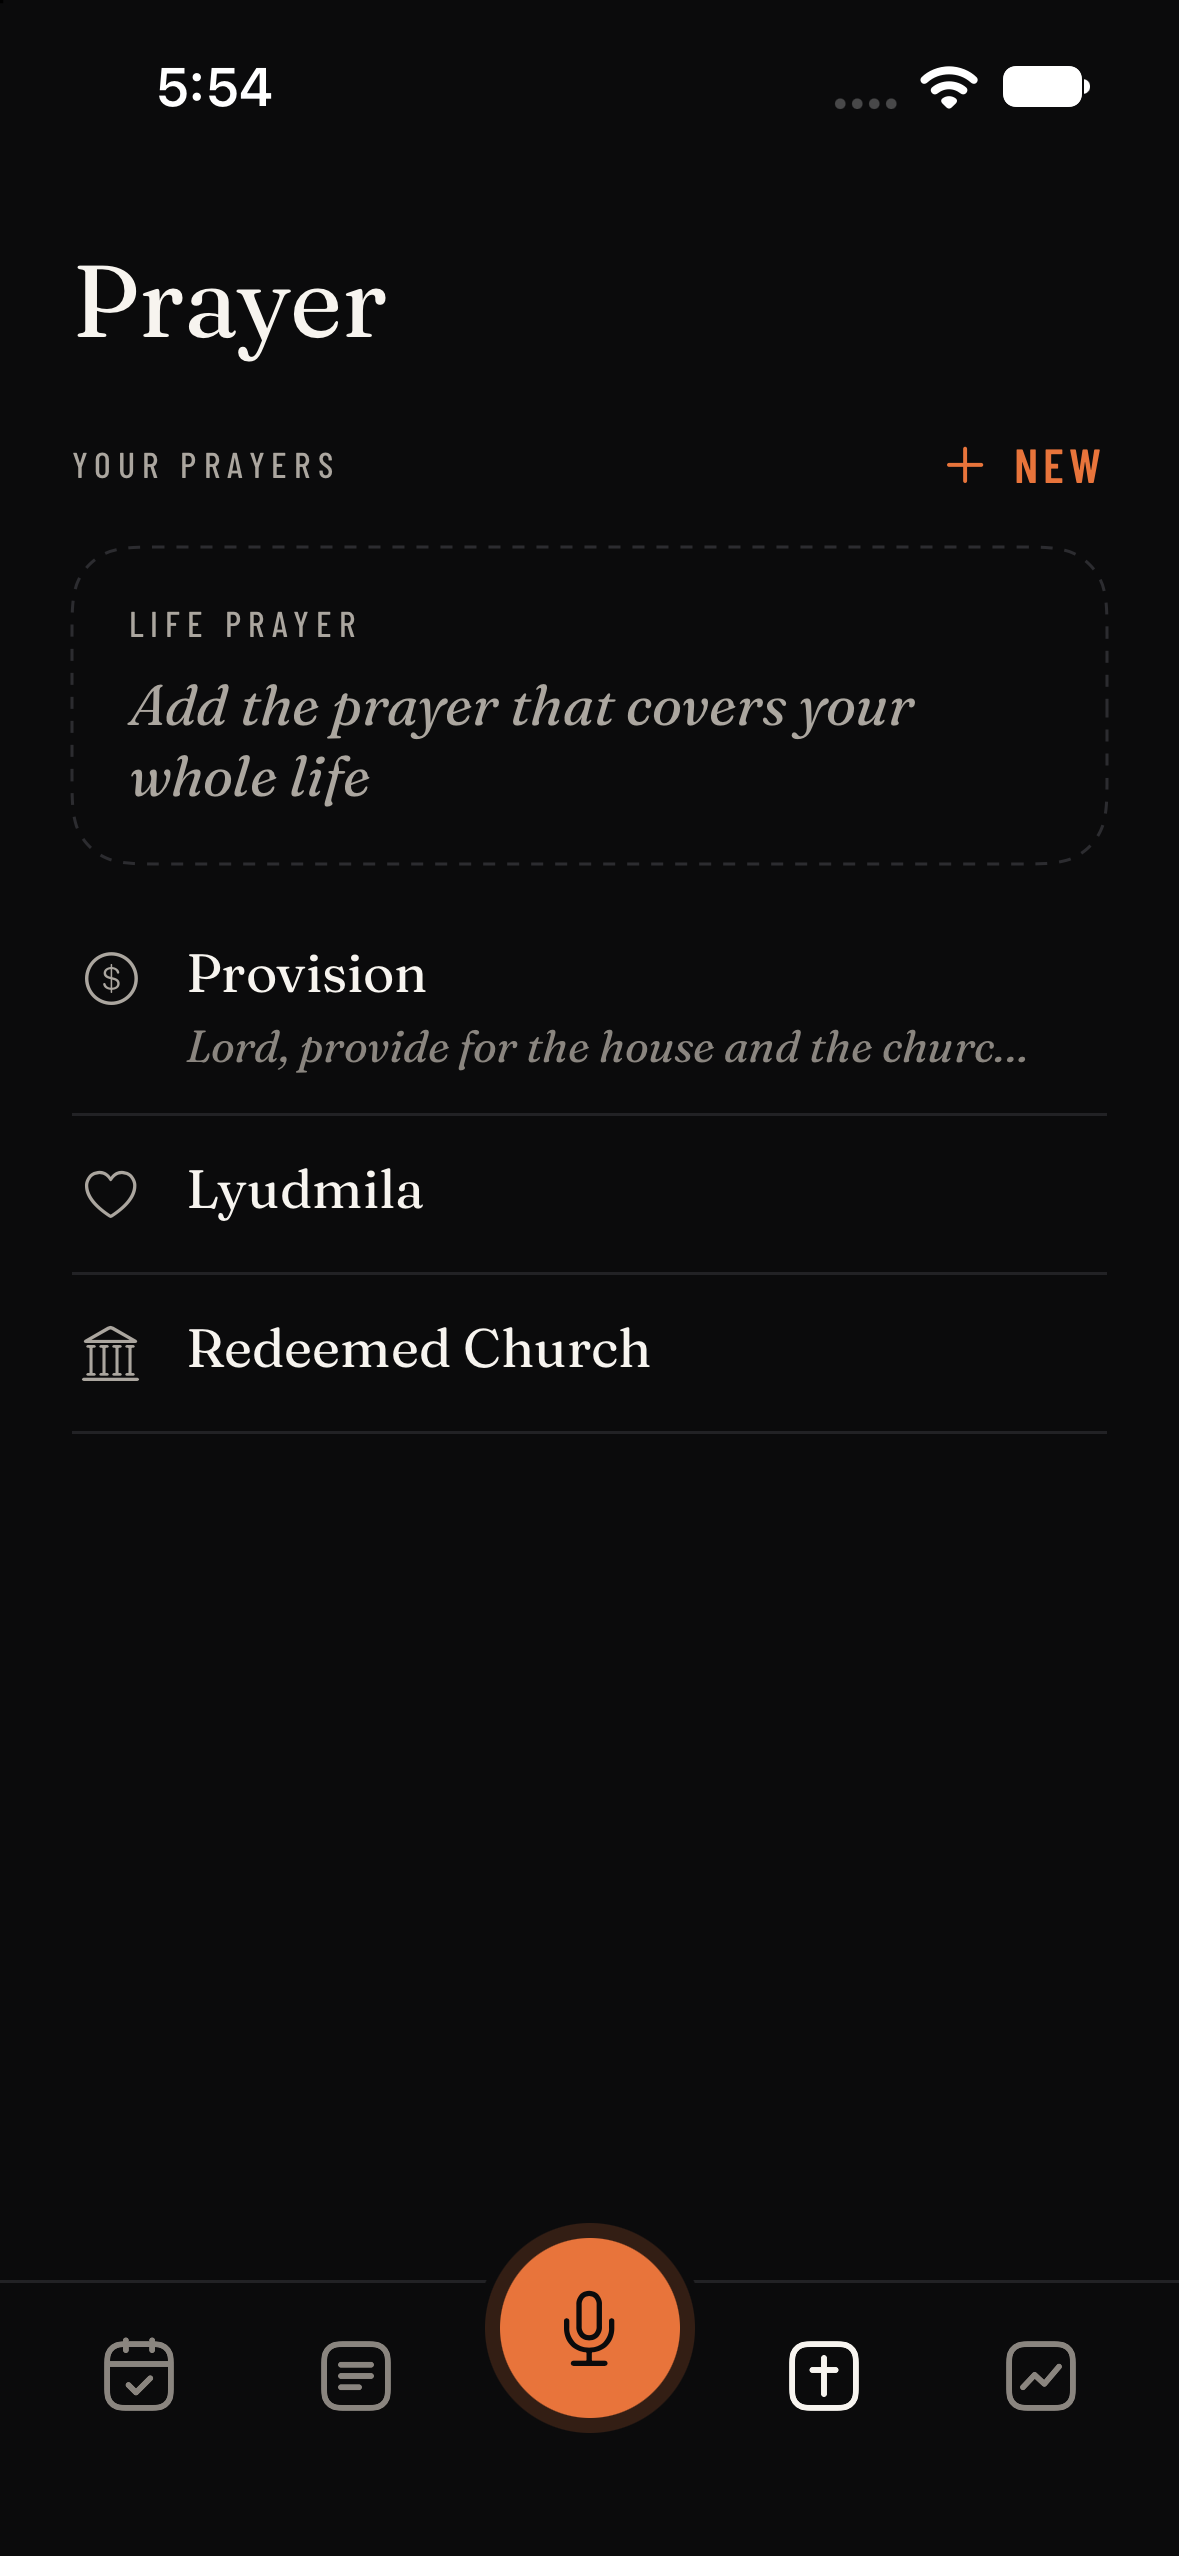
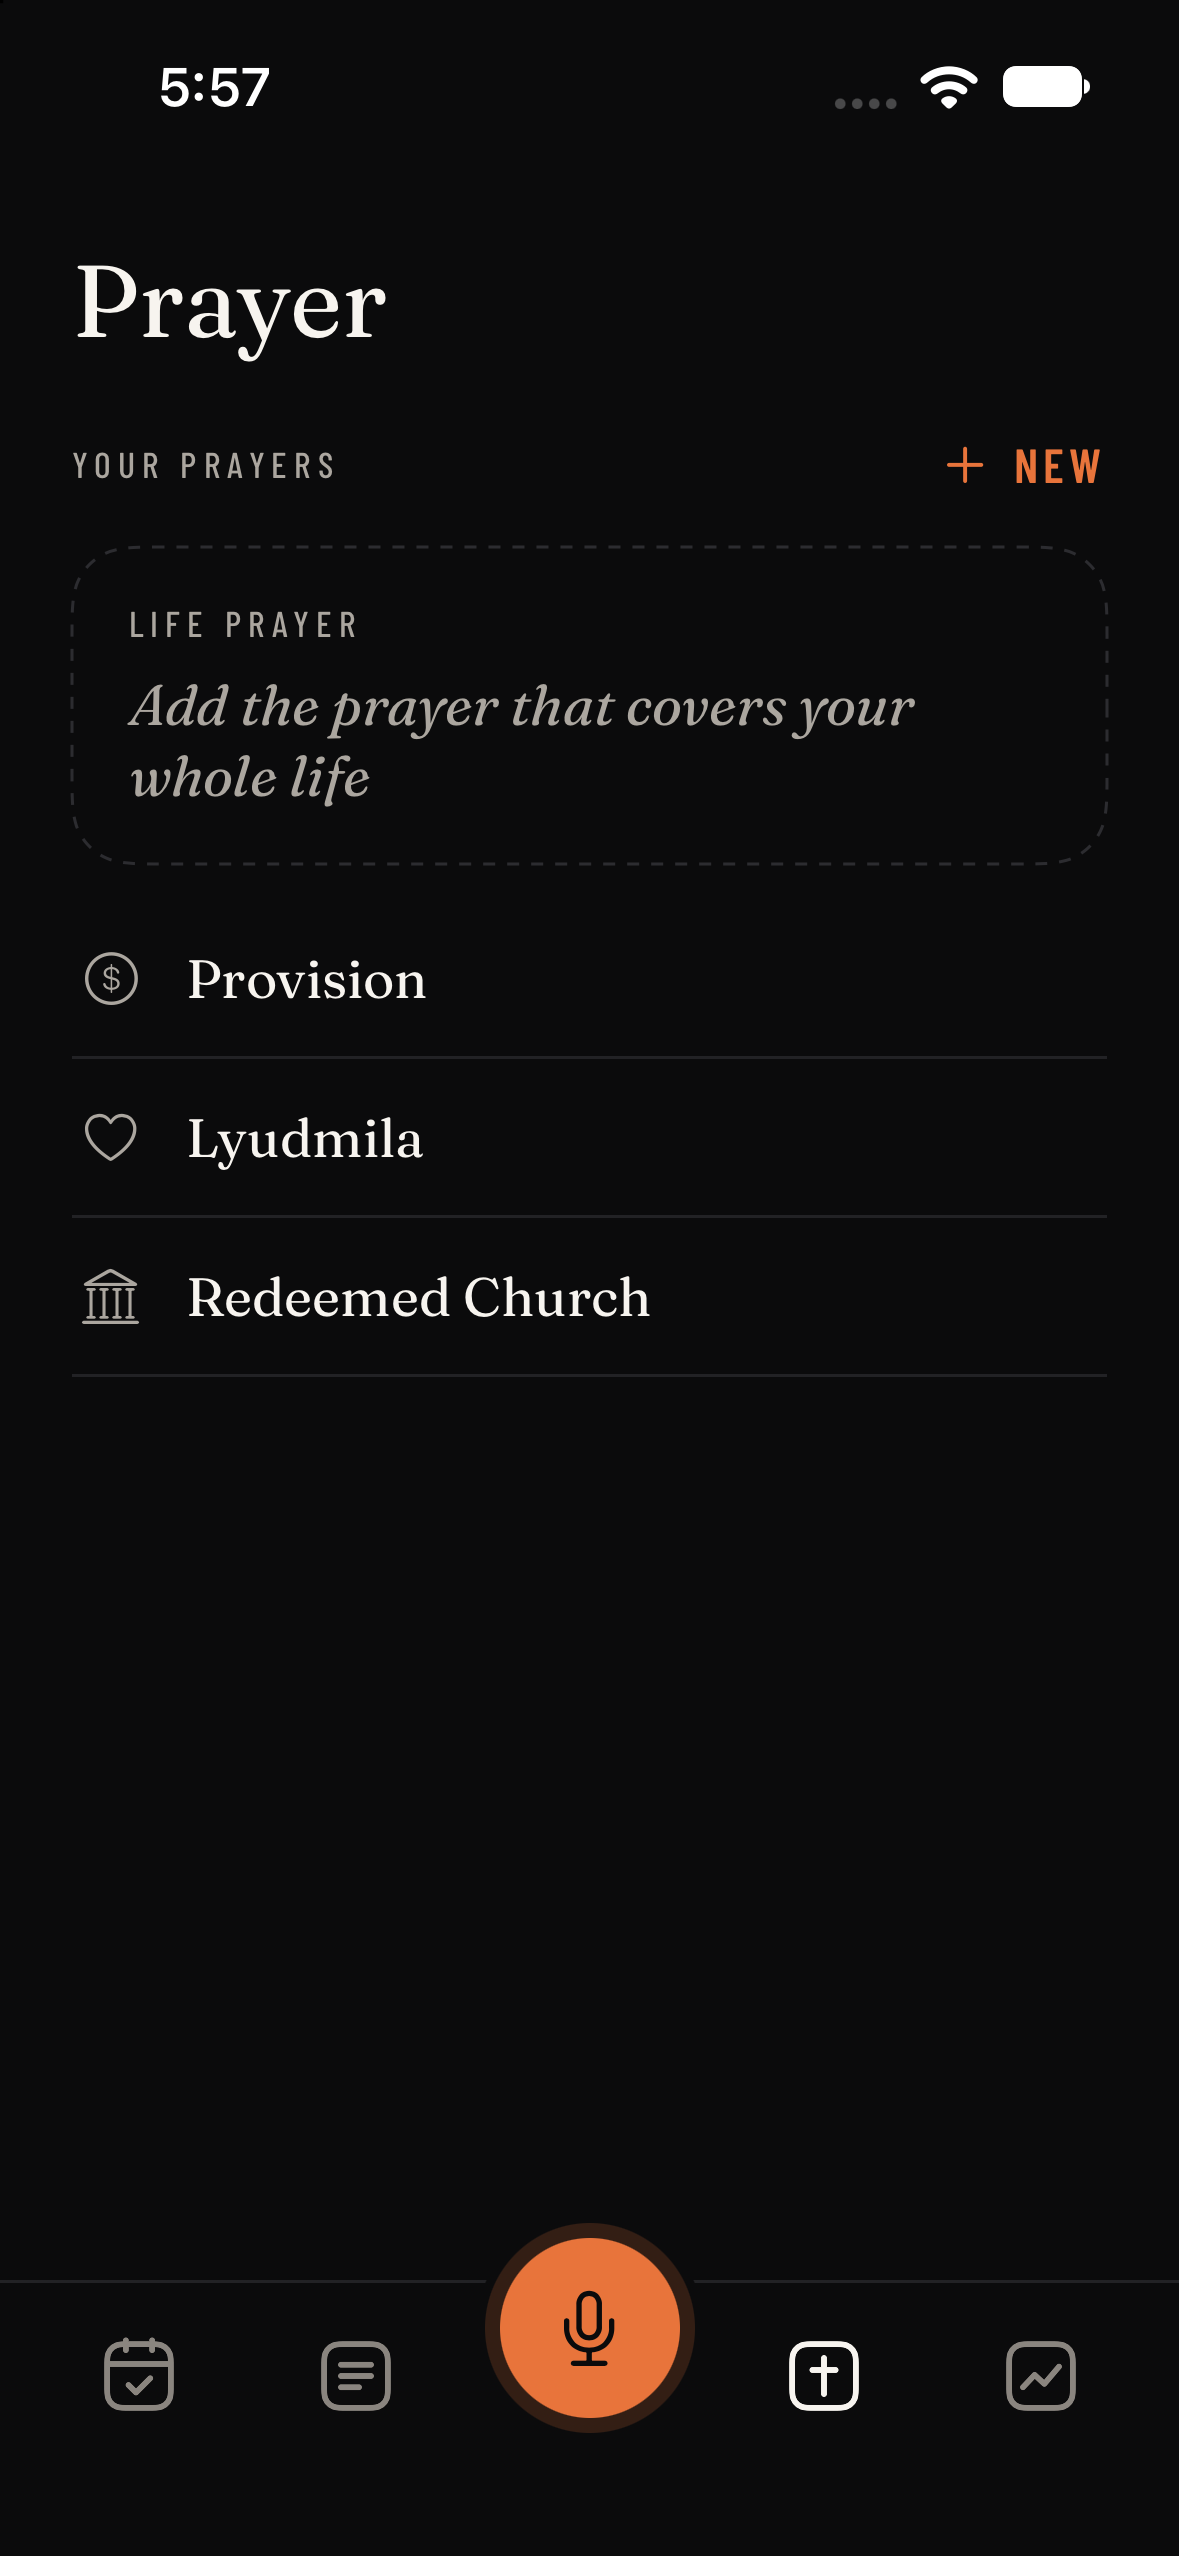
iOS: firmer haptics and record tones when the mic opens and closes; prayer list back to plain rows

diff --git a/ios/WeeklyDirection/Recorder.swift b/ios/WeeklyDirection/Recorder.swift
@@ -83,12 +83,16 @@ final class Recorder: NSObject, ObservableObject {
         guard state == .idle else { return false }
         say(nil)
         guard await AVAudioApplication.requestRecordPermission() else { say("Mic blocked: allow it in iPhone Settings"); return false }
+        // the knock and the tone come first, on the tap, before the microphone opens (so the tone is not in the recording)
+        Haptic.micOn()
         let url0 = dir
         let made: Rec = await withCheckedContinuation { c in
             audioQ.async {
                 do {
                     let s = AVAudioSession.sharedInstance()
                     try s.setCategory(.playAndRecord, mode: .default, options: [.defaultToSpeaker])
+                    // iOS mutes haptics while a recording session is active unless asked not to
+                    try? s.setAllowHapticsAndSystemSoundsDuringRecording(true)
                     try s.setActive(true)
                     let t0 = Date()
                     let url = url0.appendingPathComponent("rec-\(Int(t0.timeIntervalSince1970 * 1000)).m4a")
@@ -114,7 +118,6 @@ final class Recorder: NSObject, ObservableObject {
         liveText = ""
         levels = [Double](repeating: 0, count: levels.count)
         state = .rec
-        Haptic.tick()
         meter = Timer.scheduledTimer(withTimeInterval: 0.035, repeats: true) { [weak self] _ in Task { @MainActor in self?.tick() } }
         // live words start once the screen has finished opening, so the animation never waits on the speech engine
         Task { @MainActor [weak self] in
@@ -148,7 +151,7 @@ final class Recorder: NSObject, ObservableObject {
         r.stop()
         recorder = nil
         audioQ.async { try? AVAudioSession.sharedInstance().setActive(false, options: .notifyOthersOnDeactivation) }
-        Haptic.tick()
+        if cancelled { Haptic.tick() } else { Haptic.micOff() }
         let heard = liveText.trimmingCharacters(in: .whitespacesAndNewlines)
         let size = (try? FileManager.default.attributesOfItem(atPath: url.path)[.size] as? Int) ?? 0
         if cancelled { try? FileManager.default.removeItem(at: url); state = .idle; say(nil); return }

diff --git a/ios/WeeklyDirection/PrayerView.swift b/ios/WeeklyDirection/PrayerView.swift
@@ -36,16 +36,9 @@ struct PrayerList: View {
                 }
                 ForEach(rest) { p in
                     Button { router.half = p.body.isEmpty; router.sheet = .prayer(p.id, pinned: false) } label: {
-                        HStack(alignment: .top, spacing: 12) {
+                        HStack(spacing: 12) {
                             Ico(name: p.icon ?? "hands", size: 18).foregroundStyle(Theme.mu).opacity(p.icon == nil ? 0.5 : 1)
-                            VStack(alignment: .leading, spacing: 4) {
-                                Text(p.text).font(Theme.serif(18)).foregroundStyle(Theme.tx).multilineTextAlignment(.leading)
-                                // what is written under the name, so the list shows which prayers have more to read
-                                if !p.body.isEmpty {
-                                    Text(p.body.replacingOccurrences(of: "\\s+", with: " ", options: .regularExpression))
-                                        .font(Theme.serifItalic(15)).foregroundStyle(Theme.mu2).lineLimit(1)
-                                }
-                            }
+                            Text(p.text).font(Theme.serif(18)).foregroundStyle(Theme.tx).multilineTextAlignment(.leading)
                             Spacer()
                         }
                         .padding(.vertical, 13)

diff --git a/ios/WeeklyDirection/Theme.swift b/ios/WeeklyDirection/Theme.swift
@@ -1,5 +1,6 @@
 import SwiftUI
 import UIKit
+import AudioToolbox
 
 // The web app's palette (dark first, light from html[data-theme=light]) and type: Fraunces for titles, focus word and
 // entries; Barlow for UI text; Barlow Condensed, letter-spaced and uppercase, for labels and dates.
@@ -141,6 +142,10 @@ struct Seg: View {
 enum Haptic {
     static func tick() { UIImpactFeedbackGenerator(style: .light).impactOccurred() }
     static func success() { UINotificationFeedbackGenerator().notificationOccurred(.success) }
+    /// the mic opening and closing (Eddie, Nov 10 2026: the light tick was too soft): a firm knock plus the system's
+    /// own record tones. The tones follow the ring / silent switch.
+    static func micOn() { UIImpactFeedbackGenerator(style: .heavy).impactOccurred(intensity: 1); AudioServicesPlaySystemSound(1113) }
+    static func micOff() { UIImpactFeedbackGenerator(style: .rigid).impactOccurred(intensity: 1); AudioServicesPlaySystemSound(1114) }
 }
 
 extension View {

diff --git a/ios/docs/PROGRESS.md b/ios/docs/PROGRESS.md
@@ -3,8 +3,12 @@
 **Current: a past day of the open week can be changed to failed from the habit sheet (Nov 10) BUILT, not on the phone yet; next TestFlight upload is 0.2 (1).** Open: prayer icon pick, device check of dictation. Nothing pushed (no git credentials in the Claude shell).
 
 ## Prayers without a full page (Nov 10)
-- A prayer that is only its name opens as a half sheet with "Add to this prayer"; Edit or that line lifts it to the full page. A prayer with text, the life prayer and New still open full height. The list shows one muted line of a prayer's text under its name.
+- A prayer that is only its name opens as a half sheet with "Add to this prayer"; Edit or that line lifts it to the full page. A prayer with text, the life prayer and New still open full height. The list stays plain rows (a text preview line was tried and removed the same day: Eddie wants the list simple).
 - Layout only: no change to what is saved. Verified: simulator shots `prayer`, `prayer-short`. Not verified: on the phone; the lift to full height when Edit is tapped.
+
+## Mic feedback (Nov 10)
+- Starting a recording: heavy knock + system begin-record tone (1113) on the tap, before the microphone opens. Stopping: rigid knock + end-record tone (1114). Cancel keeps the light tick. Haptics are now allowed while the recording session is active (iOS mutes them by default, which is likely why it felt soft).
+- Not verified: any of it. The simulator has no haptics and the tones were not heard; needs the phone.
 
 ## Past-day correction (Nov 10)
 - Habit sheet on a past day of the open week: "Change <day> to failed" plus a confirm that names the day and what is recorded. Works for a done or a missed habit; a failure stays final; a past day still cannot be checked off. Writes what a same-day failure writes (`id: false`, `id@fail: true`, mark `drift`). Closed weeks stay read-only.
